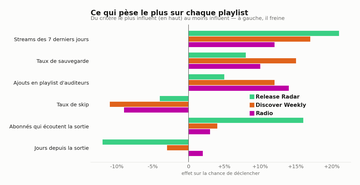
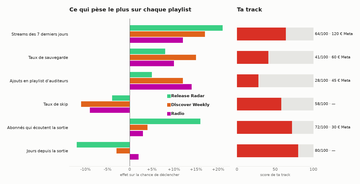
R487 : Aperçu algos — « Ta track » sur chaque critère (score + dépense Meta), texte sous les figures retiré, bouton Passer Premium vers Facturation
- shap-overview.png : second panneau sur les mêmes lignes, score /100 par critère et
  dépense Meta associée (« — » quand aucune pub ne fait bouger le critère) ; hauteur
  recalée pour garder la rangée de trois figures à une hauteur.
- Vue : la phrase « À droite : ce qui pèse… » retirée ; un seul bouton dont le libellé
  suit la cible — Facturation si Road to Algo est verrouillé, Road to Algo sinon.
- Tests : panneau « Ta track » nommé et légendé, AppTest gratuit → billing, premium →
  trigger_algo, aucun texte sous les figures.

diff --git a/tools/dev/make_example_charts.py b/tools/dev/make_example_charts.py
@@ -378,7 +378,7 @@ def meta_x_s4a() -> Path:
 
 
 def shap_overview() -> Path:
-    """Ce qui pèse le plus sur chaque playlist — un aperçu SHAP, factice.
+    """Ce qui pèse le plus sur chaque playlist, et où en est TA track — un aperçu SHAP, factice.
 
     R456 (2026-10-07, commentaire vocal C10) : « un aperçu des algorithmes de SHAP qui
     liste l'impact de chaque paramètre sur ce qui va déclencher en priorité Discover
@@ -386,19 +386,24 @@ def shap_overview() -> Path:
     rangé du plus influent au moins influent ; trois barres par critère, une par
     playlist, aux couleurs de la figure de prévision. Une barre vers la gauche FREINE
     le déclenchement : le signe d'une contribution SHAP est la moitié de sa lecture.
+
+    R487 (2026-10-09, W10) : « ajouter NOTRE track, sa position sur chaque critère avec
+    un score et la dépense Meta associée ». Second panneau sur les MÊMES lignes : le score
+    de la track sur 100 par critère, et la dépense Meta qui l'y a portée — « — » sur un
+    critère qu'aucune publicité ne fait bouger (l'âge de la sortie).
     """
-    params = (   # (critère, Release Radar, Discover Weekly, Radio) — contributions fictives
-        ("Streams des 7 derniers jours", 0.21, 0.17, 0.12),
-        ("Taux de sauvegarde", 0.08, 0.15, 0.10),
-        ("Ajouts en playlist d'auditeurs", 0.05, 0.12, 0.14),
-        ("Abonnés qui écoutent la sortie", 0.16, 0.04, 0.03),
-        ("Taux de skip", -0.04, -0.11, -0.09),
-        ("Jours depuis la sortie", -0.12, -0.03, 0.02),
+    params = (   # (critère, Release Radar, Discover Weekly, Radio, score /100, € Meta)
+        ("Streams des 7 derniers jours", 0.21, 0.17, 0.12, 64, 120),
+        ("Taux de sauvegarde", 0.08, 0.15, 0.10, 41, 60),
+        ("Ajouts en playlist d'auditeurs", 0.05, 0.12, 0.14, 28, 45),
+        ("Abonnés qui écoutent la sortie", 0.16, 0.04, 0.03, 72, 30),
+        ("Taux de skip", -0.04, -0.11, -0.09, 58, None),
+        ("Jours depuis la sortie", -0.12, -0.03, 0.02, 80, None),
     )
     playlists = (("Release Radar", BLUE), ("Discover Weekly", AQUA), ("Radio", YELLOW))
-    order = sorted(params, key=lambda r: sum(abs(v) for v in r[1:]))
-    # 5.14 in: the long criterion names widen the PNG; it sits beside the others at one height.
-    fig, ax = plt.subplots(figsize=(9, 4.80))
+    order = sorted(params, key=lambda r: sum(abs(v) for v in r[1:4]))
+    fig, (ax, mine) = plt.subplots(1, 2, figsize=(11, 6.72), sharey=True,
+                                   gridspec_kw={"width_ratios": [2.1, 1], "wspace": 0.06})
     y = np.arange(len(order))
     h = 0.26
     for i, (name, colour) in enumerate(playlists):
@@ -406,10 +411,6 @@ def shap_overview() -> Path:
                 color=colour, linewidth=0)
     ax.axvline(0, color=INK_MUTED, linewidth=1)
     _frame(ax)
-    # After `_frame`: it puts a thousands formatter on y, which would print the row
-    # indexes instead of the criteria.
-    ax.set_yticks(y, [r[0] for r in order], fontsize=10, color=INK)
-    ax.yaxis.set_major_formatter(plt.FixedFormatter([r[0] for r in order]))
     ax.grid(axis="y", visible=False)
     ax.xaxis.set_major_formatter(FuncFormatter(lambda v, _p: f"{v:+.0%}".replace("+0%", "0")))
     ax.set_xlabel("effet sur la chance de déclencher", fontsize=9)
@@ -418,8 +419,26 @@ def shap_overview() -> Path:
         _series_tag(ax, 0.62, 0.475 - i * 0.06, name, colour)
     ax.set_title("Ce qui pèse le plus sur chaque playlist", fontsize=14,
                  fontweight="700", color=INK, loc="left", pad=18)
-    ax.text(0, 1.035, "Du critère le plus influent (en haut) au moins influent — à gauche, il freine",
-            transform=ax.transAxes, fontsize=10, color=INK_MUTED)
+
+    scores = [r[4] for r in order]
+    mine.barh(y, [100] * len(order), height=0.55, color=GRID, linewidth=0)
+    mine.barh(y, scores, height=0.55, color=META, linewidth=0)
+    for yi, r in zip(y, order):
+        spend = f"{r[5]} € Meta" if r[5] is not None else "—"
+        mine.text(102, yi, f"{r[4]}/100 · {spend}", va="center", ha="left",
+                  fontsize=9.5, color=INK)
+    _frame(mine)
+    mine.set_xlim(0, 100)
+    mine.set_xticks([0, 50, 100])
+    mine.xaxis.set_major_formatter(FuncFormatter(lambda v, _p: f"{v:.0f}"))
+    mine.grid(axis="y", visible=False)
+    mine.tick_params(axis="y", left=False, labelleft=False)
+    # After BOTH `_frame` calls: each puts a thousands formatter on the SHARED y axis,
+    # which would print the row indexes instead of the criteria.
+    ax.set_yticks(y, [r[0] for r in order], fontsize=10, color=INK)
+    ax.yaxis.set_major_formatter(plt.FixedFormatter([r[0] for r in order]))
+    mine.set_xlabel("score de ta track", fontsize=9)
+    mine.set_title("Ta track", fontsize=14, fontweight="700", color=INK, loc="left", pad=18)
     return _save(fig, "shap-overview.png")
 
 

diff --git a/tests/test_the_algo_preview_is_figures_only.py b/tests/test_the_algo_preview_is_figures_only.py
@@ -56,9 +56,74 @@ def test_the_shap_example_ranks_the_three_playlists(monkeypatch) -> None:
     figures = {}
     monkeypatch.setattr(charts, "_save", lambda fig, name: figures.setdefault(name, fig))
     charts.shap_overview()
-    (ax,) = figures[SHAP_OVERVIEW].axes
+    ax = figures[SHAP_OVERVIEW].axes[0]   # R487 : « Ta track » is the second panel
     labels = " ".join(t.get_text() for t in ax.texts)
     assert all(p in labels for p in ("Discover Weekly", "Release Radar", "Radio"))
     assert any(p.get_width() < 0 for p in ax.patches), "a criterion that slows down is drawn left"
     # R480 (W3) : no « Exemple — données fictives » drawn into the image any more.
     assert "fictives" not in " ".join(t.get_text() for t in figures[SHAP_OVERVIEW].texts + ax.texts)
+
+
+def test_the_shap_example_places_our_track_on_each_criterion(monkeypatch) -> None:
+    """R487 (W10) : « ajouter NOTRE track, sa position sur chaque critère avec un score et
+    la dépense Meta associée » — a second panel on the same rows."""
+    spec = importlib.util.spec_from_file_location("_r487_charts", SCRIPT)
+    charts = importlib.util.module_from_spec(spec)
+    spec.loader.exec_module(charts)
+    figures = {}
+    monkeypatch.setattr(charts, "_save", lambda fig, name: figures.setdefault(name, fig))
+    charts.shap_overview()
+    shap, mine = figures[SHAP_OVERVIEW].axes
+    figures[SHAP_OVERVIEW].canvas.draw()   # tick labels are only formatted at draw time
+    assert mine.get_title(loc="left") == "Ta track"
+    rows = [t.get_text() for t in shap.get_yticklabels()]
+    assert len(rows) == 6 and "" not in rows, f"the criteria lost their names: {rows}"
+    notes = [t.get_text() for t in mine.texts]
+    assert len(notes) == len(rows) and all("/100" in n for n in notes)
+    assert any("€ Meta" in n for n in notes), "the Meta spend is not drawn"
+
+
+_CTA_SCRIPT = """
+import sys
+sys.path.insert(0, {root!r})
+import src.dashboard.views.algo_preview as v
+import streamlit as st
+_lock = v.est_verrouille
+_goto = v.goto
+v.est_verrouille = lambda key, plan=None: {locked}
+v.goto = lambda key: st.session_state.__setitem__("went", key)
+try:
+    v.show()
+finally:
+    v.est_verrouille = _lock
+    v.goto = _goto
+"""
+
+
+def _cta(locked: bool):
+    from streamlit.testing.v1 import AppTest
+    at = AppTest.from_string(_CTA_SCRIPT.format(root=str(ROOT), locked=locked))
+    at.run(timeout=60)
+    assert not at.exception, at.exception
+    (button,) = at.button
+    label = button.label
+    button.click().run(timeout=60)
+    return label, at.session_state["went"]
+
+
+def test_a_free_artist_is_sent_to_billing() -> None:
+    """R487 (W10) : « bouton vers Facturation pour passer premium si on ne l'est pas »."""
+    label, went = _cta(locked=True)
+    assert went == "billing" and "Premium" in label and "🔒" not in label
+
+
+def test_a_premium_artist_opens_road_to_algo() -> None:
+    label, went = _cta(locked=False)
+    assert went == "trigger_algo" and "Road to Algo" in label
+
+
+def test_no_help_text_below_the_figures() -> None:
+    """R487 (W10) : « retirer le texte de droite » — the caption under the figures."""
+    tree = ast.parse(VIEW.read_text(encoding="utf-8"))
+    show = next(n for n in tree.body if isinstance(n, ast.FunctionDef) and n.name == "show")
+    assert not {"caption", "markdown", "info", "write"} & _calls(show)

diff --git a/src/dashboard/views/algo_preview.py b/src/dashboard/views/algo_preview.py
@@ -1,7 +1,7 @@
 """Aperçu : déclencher les algos — ce que Road to Algo fait, en trois figures d'exemple. GRATUIT.
 
 Type: Feature
-Uses: example_figures (ALGO_PREVIEW), plan_gate.bouton_vers, navigation.goto, i18n
+Uses: example_figures (ALGO_PREVIEW), plan_gate.est_verrouille, navigation.goto, i18n
 Depends on: src/dashboard/assets/examples/*.png (built by `make example-charts`)
 Persists in: — (lecture seule)
 
@@ -19,6 +19,10 @@ la porte la plus proche, l'écart, le levier, le budget en ordre de grandeur, et
 critères devinés (R410) — a été RETIRÉ, pas déplacé : c'est le contenu de Road to Algo, que
 le bouton ouvre. Trois figures égales en trois colonnes : l'image prend un tiers de la
 largeur au lieu de toute la page.
+
+R487 (2026-10-09, W10) : la figure SHAP gagne « Ta track » (score par critère + dépense
+Meta), la phrase sous les figures disparaît, et un compte gratuit voit « Passer Premium »,
+qui mène à Facturation, au lieu d'un cadenas vers Road to Algo.
 """
 from __future__ import annotations
 
@@ -27,7 +31,7 @@ import streamlit as st
 from src.dashboard.utils.example_figures import ALGO_PREVIEW, render_example
 from src.dashboard.utils.i18n import t
 from src.dashboard.utils.navigation import goto
-from src.dashboard.utils.plan_gate import bouton_vers
+from src.dashboard.utils.plan_gate import est_verrouille
 
 
 def show() -> None:
@@ -35,13 +39,11 @@ def show() -> None:
     for col, name in zip(st.columns(len(ALGO_PREVIEW), gap="medium"), ALGO_PREVIEW):
         with col:
             render_example(name)
-    st.caption(t("algo_preview.shap_line",
-                 "À droite : ce qui pèse le plus sur chaque playlist — plus la barre est "
-                 "longue, plus le critère compte ; vers la gauche, il freine."))
-    if bouton_vers("trigger_algo",
-                   ouvert=t("algo_preview.open", "🚀 Ouvrir Road to Algo"),
-                   ferme=t("algo_preview.upgrade",
-                           "🔒 Tout le catalogue, les simulations et le budget détaillé "
-                           "→ Premium"),
-                   key="algo_preview_cta", type="primary"):
-        goto("trigger_algo")   # R454 — le clic était jeté : rien ne naviguait
+    # R487 (W10) : « Ouvrir Road to Algo » → un bouton vers Facturation pour qui n'est pas
+    # premium. Le texte sous les figures est retiré : la figure SHAP porte ses légendes.
+    # Le libellé suit la cible : jamais un bouton qui promet une page qu'on ne verra pas.
+    locked = est_verrouille("trigger_algo")
+    label = (t("algo_preview.upgrade", "⭐ Passer Premium") if locked
+             else t("algo_preview.open", "🚀 Ouvrir Road to Algo"))
+    if st.button(label, key="algo_preview_cta", type="primary", width="stretch"):
+        goto("billing" if locked else "trigger_algo")

diff --git a/src/dashboard/utils/i18n_catalog/algo_preview.py b/src/dashboard/utils/i18n_catalog/algo_preview.py
@@ -1,11 +1,8 @@
-"""EN strings for the free Road to Algo preview (R193, R456)."""
+"""EN strings for the free Road to Algo preview (R193, R456, R487)."""
 
 EN = {
     "algo_preview.title": "Preview: trigger Spotify's algorithms",
-    "algo_preview.shap_line": "On the right: what weighs most on each playlist — the longer "
-                              "the bar, the more the criterion counts; to the left, it holds "
-                              "you back.",
     "algo_preview.open": "🚀 Open Road to Algo",
-    "algo_preview.upgrade": "🔒 Whole catalogue, simulations and detailed budget → Premium",
+    "algo_preview.upgrade": "⭐ Go Premium",
     "nav.item.algo_preview": "Preview: trigger the algorithms",
 }
